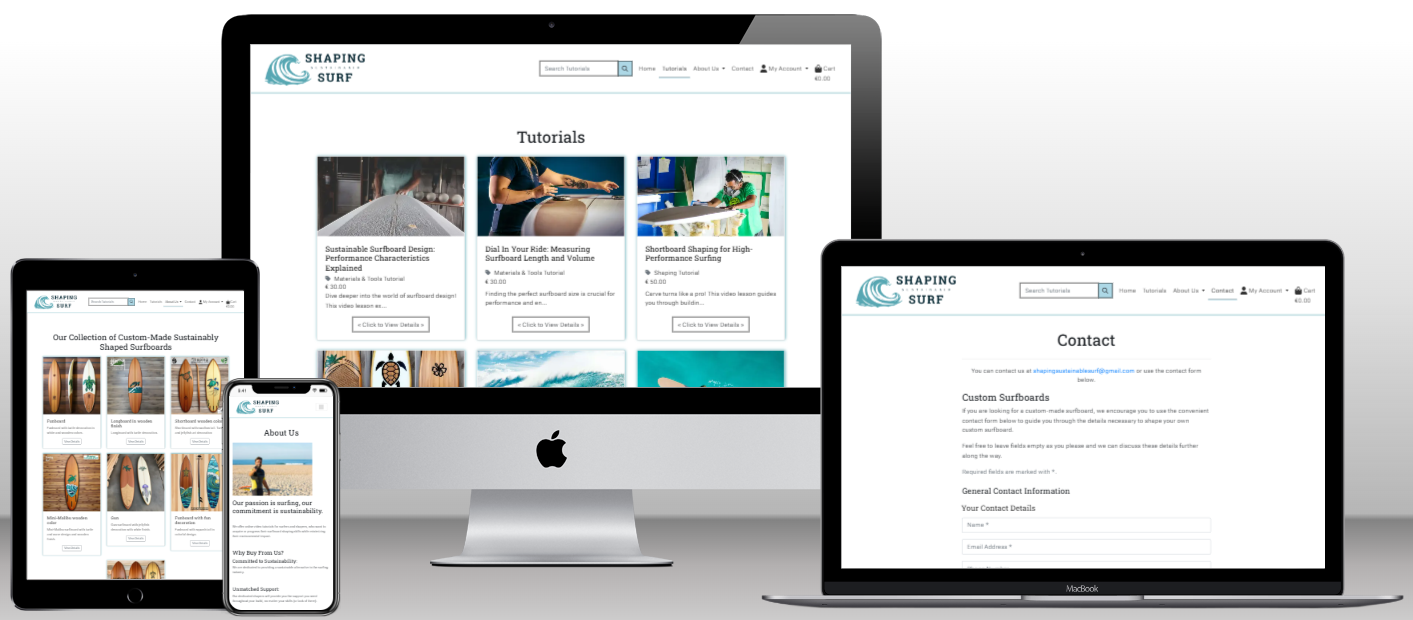
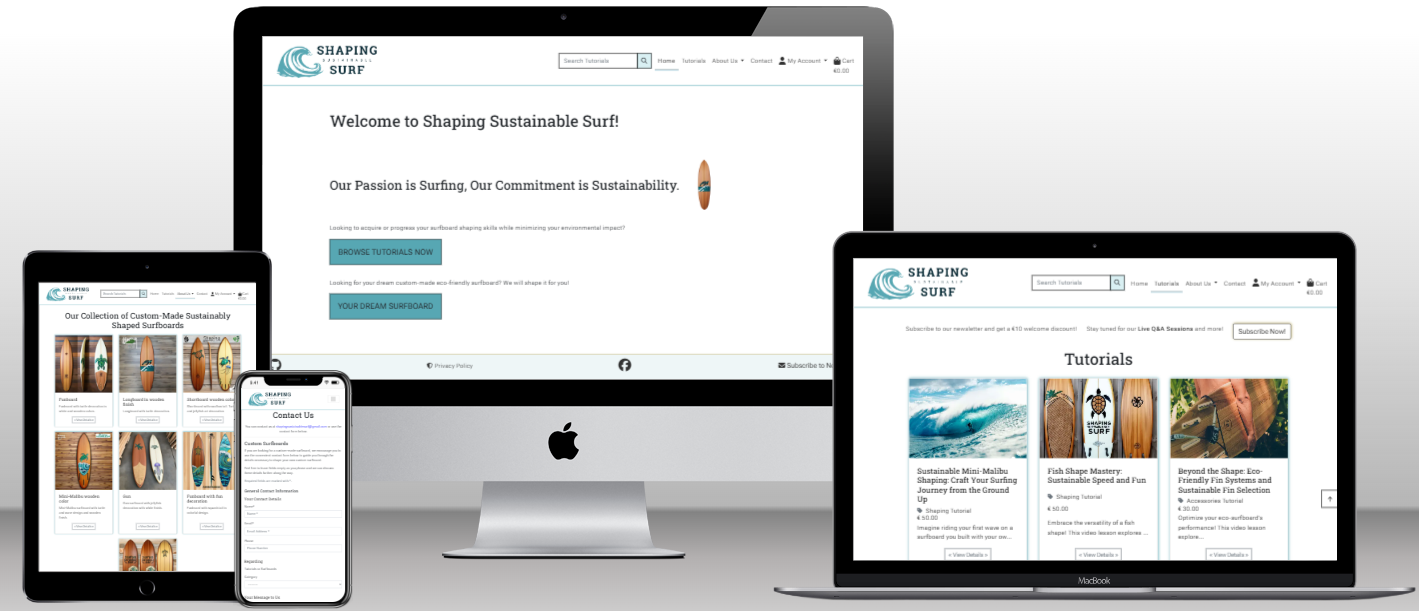
Finalize code for production
- Remove development code comments
- Remove unused css
- Change subject line of email notification to superuser of a new contact message from facultative field ‘subject’ to obligatory field ‘name’ to avoid the value ‘None’ as subject line
- Update README: color palette, mockup
- Add to README: feature newsletter: user feedback if discount code unretrievable

diff --git a/static/css/base.css b/static/css/base.css
@@ -5,7 +5,6 @@
     /* Colors */
     --blue: #57a7b3;
     --green: #3d757d;
-    --pink: #b35794;
     --aubergine: #7D3D67;
     --yellow: #b3a357;
  

diff --git a/staticfiles/css/base.css b/staticfiles/css/base.css
@@ -5,7 +5,6 @@
     /* Colors */
     --blue: #57a7b3;
     --green: #3d757d;
-    --pink: #b35794;
     --aubergine: #7D3D67;
     --yellow: #b3a357;
  

diff --git a/checkout/webhook_handler.py b/checkout/webhook_handler.py
@@ -75,8 +75,6 @@ class StripeWH_Handler:
         stripe_charge = stripe.Charge.retrieve(intent.latest_charge)
         billing_details = stripe_charge.billing_details
         grand_total = round(stripe_charge.amount / 100, 2)
-        # deprecated version tutorial: billing_details = intent.charges.data[0].billing_details
-        # # deprecated version tutorial: grand_total = round(intent.charges.data[0].amount / 100, 2)
 
         # Clean data in the billing details
         for field, value in billing_details.address.items():
@@ -87,7 +85,6 @@ class StripeWH_Handler:
         profile = None
         username = intent.metadata.username
         if username != "AnonymousUser":
-            # next line (profile) tutorial: username = intent.metadata.username
             profile = UserProfile.objects.get(user__username=username)
             if save_info:
                 profile.default_full_name = billing_details.name

diff --git a/shaping_surf/settings.py b/shaping_surf/settings.py
@@ -41,7 +41,6 @@ ALLOWED_HOSTS = [
 ]
 
 CSRF_TRUSTED_ORIGINS = [
-    #"https://8000-gomarsdotti-shapingsust-wirzm9fqqo3.ws.codeinstitute-ide.net",
     "https://8000-gomarsdotti-shapingsust-h0kchpxwruz.ws.codeinstitute-ide.net/",
     "https://shaping-sustainable-surf-8794b08a1b3a.herokuapp.com",
     "https://*.codeinstitute-ide.net",

diff --git a/README.md b/README.md
@@ -2,7 +2,7 @@
 
 ![mockup](/documentation/mockup.png)
 
-You can view the live project [here](https://shaping-sustainable-surf-8794b08a1b3a.herokuapp.com/)<br>
+View the live project [here](https://shaping-sustainable-surf-8794b08a1b3a.herokuapp.com/).<br>
 *(To open in a new window, press "ctrl" (or ⌘ for Mac) + click on the link)*
 
 Welcome to Shaping Sustainable Surf, a fully functional Django ecommerce web application that offers access to online video tutorials.
@@ -315,6 +315,8 @@ The Kanban board is a handy tool in agile project management to provide a clear 
 
 ## Features
 
+### Main Features
+
 ### Custom Error Pages
 
 The project a custom HTML error page for status codes 403 (Forbidden), 404 (Not Found) and 500 (Internal Server Error) for improved user experience. The error page maintains a consistent design with the rest of the website. The error pages clearly explains the meaning of the error code in a user-friendly way avoiding technical jargon and uses clear, concise language. The error pages display a friendly image in line with the website theme to make the error page more visually appealing.<br>
@@ -393,9 +395,13 @@ The content of the privacy policy is filled into the modal from the source docum
 
 ![feature-newsletter-modals](/documentation/feature-newsletter-modals.png)
 
-The user receives a confirmation displaying the **discount code** as well as a personalized link to unsubscribe on the website and per email.
+The user receives a confirmation displaying the **discount code**. The confirmation, discount code as well as a **personalized link to unsubscribe** is **sent by email** to the subscribed email address.
 
 ![feature-newsletter-success page](/documentation/feature-newsletter-success.png)
+
+If there is currently no discount code active or the discount code cannot be retrieved for other reasons, the user is notified by a message in the browser and by email of technical issues. The user is encouraged to contact the store owner for a functional discount code.
+
+![feature-newsletter-discount-error](/documentation/feature-newsletter-discount-error.png)
 
 **Secure unsubscribe process** is implemented using unique tokens for each subscriber. One-click unsubscription permanently removes subscriber data, ensuring GDPR compliance.
 
@@ -694,6 +700,7 @@ Trust Building: It builds trust with users by being transparent about what data 
 - HTML
 - CSS
 - JavaScript
+- Markdown for this README.md and TESTING.md
 
 ### Libraries and Frameworks Used
 

diff --git a/TESTING.md b/TESTING.md
@@ -5,7 +5,7 @@ This document outlines the testing procedures and results for the ecommerce proj
 For development documentation, please refer to the [README.md](README.md).
 
 View the live project [here](https://shaping-sustainable-surf-8794b08a1b3a.herokuapp.com/).<br>  
-*(To open in a new window, press "Ctrl" + click on the link, or "⌘ + click" on Mac)*
+*(To open in a new window, press "ctrl" (or ⌘ for Mac) + click on the link)*
 
 ## Overview
 
